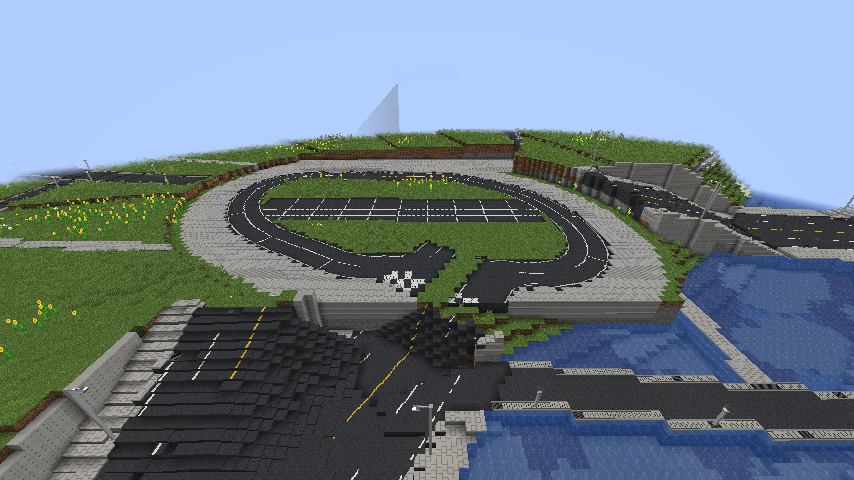
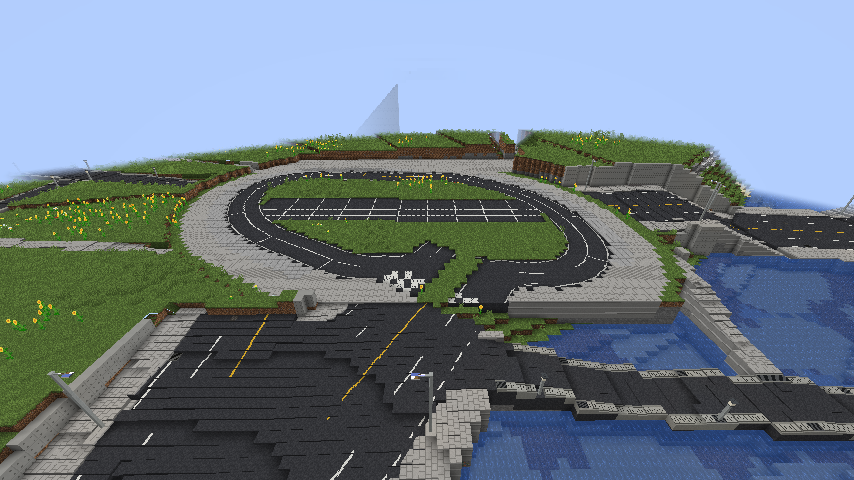
Station squares meet their streets at their level: the junctions on and at the edge of a square set to it, the streets beyond lowered or ramped to it 1 in 12

diff --git a/core/src/main/java/com/mtm/citybuilder/core/chunk/ChunkLayer.java b/core/src/main/java/com/mtm/citybuilder/core/chunk/ChunkLayer.java
@@ -1643,6 +1643,7 @@ public final class ChunkLayer {
                 }
             }
         }
+        squares(index, nodes, links, reach, ramp);
         // {height, node, lift over the node's ground}, the highest first. What is carried along the streets is the
         // lift, falling 1 in leveeRamp: on flat land the street then rises 1 in leveeRamp to the crest or deck, and
         // where the land falls away from a bridge landing on high ground the lift still dies out, instead of the
@@ -1701,6 +1702,98 @@ public final class ChunkLayer {
                 open.add(new double[]{carried, next, lift});
             }
         }
+    }
+
+    /**
+     * The streets meeting a station's square at its level: every junction on or at the edge of its land (the avenue's
+     * mouth, the side streets ending at it) set to the square's level, and where that lies below the ground, the
+     * junctions beyond lowered so that no street falls to it steeper than 1 in {@code ramp} (the square sunk into a
+     * slope, the streets coming down to it), the drop dying out along the streets as the lift does for a ramp. Where
+     * the square stands over the ground the ramps carry its height out ({@link #ramps}: its junctions are presets).
+     */
+    private void squares(Index index, Map<Long, double[]> nodes, Map<Long, List<double[]>> links, Map<Long, Double> reach,
+                         double ramp) {
+        java.util.Set<StationPlaza> plazas = java.util.Collections.newSetFromMap(new java.util.IdentityHashMap<>());
+        for (List<StationPlaza> list : index.plazas.values()) {
+            plazas.addAll(list);
+        }
+        if (plazas.isEmpty()) {
+            return;
+        }
+        Map<Long, Double> fixed = new HashMap<>();
+        for (StationPlaza plaza : plazas) {
+            double level = plazaLevel(plaza);
+            double[] b = plaza.bounds();
+            for (Map.Entry<Long, double[]> n : nodes.entrySet()) {
+                double[] at = n.getValue();
+                double r = Math.max(EDGE, reach.getOrDefault(n.getKey(), 0.0) + 1.0);
+                if (at[0] < b[0] - r || at[0] > b[2] + r || at[1] < b[1] - r || at[1] > b[3] + r) {
+                    continue;
+                }
+                if (onSquare(plaza, at[0], at[1], r)) {
+                    fixed.merge(n.getKey(), level, Math::min);
+                }
+            }
+        }
+        // {level, node, drop under the node's ground}, the deepest first
+        java.util.PriorityQueue<double[]> open = new java.util.PriorityQueue<>((u, v) -> Double.compare(v[2], u[2]));
+        Map<Long, Double> best = new HashMap<>(fixed);
+        for (Map.Entry<Long, Double> f : fixed.entrySet()) {
+            index.heights.put(f.getKey(), f.getValue());
+            double[] at = nodes.get(f.getKey());
+            double drop = groundHeight(at[0], at[1]) - f.getValue();
+            if (drop > 0) {
+                open.add(new double[]{f.getValue(), f.getKey(), drop});
+            }
+        }
+        while (!open.isEmpty()) {
+            double[] top = open.poll();
+            long node = (long) top[1];
+            if (top[0] > best.get(node)) {
+                continue;
+            }
+            for (double[] link : links.getOrDefault(node, List.of())) {
+                long next = (long) link[0];
+                if (fixed.containsKey(next)) {
+                    continue;
+                }
+                double[] at = nodes.get(next);
+                Double preset = index.heights.get(next);
+                double ground = preset != null ? preset : groundHeight(at[0], at[1]);
+                double drop = Math.min(ground - (top[0] + link[1] / ramp), top[2] - link[1] / ramp);
+                double carried = ground - drop;
+                Double known = best.get(next);
+                if (drop <= 0 || known != null && known <= carried) {
+                    continue;
+                }
+                best.put(next, carried);
+                index.heights.put(next, carried);
+                open.add(new double[]{carried, next, drop});
+            }
+        }
+    }
+
+    /** How far past a square's land a junction still counts as on it, at the least. */
+    private static final double EDGE = 2.5;
+
+    /**
+     * Whether a junction lies on a square's land or within {@code r} of it (its paving reaching the square: an
+     * arterial cut at the square's edge ends a half-width short of it).
+     */
+    private static boolean onSquare(StationPlaza plaza, double x, double z, double r) {
+        if (plaza.contains(x, z)) {
+            return true;
+        }
+        for (double d = Math.min(2.0, r); d <= r + 1e-9; d += 2.0) {
+            int steps = Math.max(8, (int) Math.ceil(2 * Math.PI * d / 2.0));
+            for (int k = 0; k < steps; k++) {
+                double a = 2 * Math.PI * k / steps;
+                if (plaza.contains(x + d * Math.cos(a), z + d * Math.sin(a))) {
+                    return true;
+                }
+            }
+        }
+        return false;
     }
 
     /** The crest of an embankment whose centre line runs within {@code reach} of a position, or NaN. */

diff --git a/core/src/test/java/com/mtm/citybuilder/core/street/BridgeEndsTest.java b/core/src/test/java/com/mtm/citybuilder/core/street/BridgeEndsTest.java
@@ -109,6 +109,60 @@ class BridgeEndsTest {
         builtLandIsReachedByStreets(logic, town, segments);
         streetsAreLaidSmoothlyNearTheGround(logic, terrain);
         bridgeApproachesStayNearTheLand(logic, terrain, segments);
+        squaresMeetTheirStreetsLevel(logic, plan);
+    }
+
+    /**
+     * Round each station square's mouth the avenue leaves it at the square's level: no step of more than a block from
+     * the square's paving to the street beside it.
+     */
+    private static void squaresMeetTheirStreetsLevel(CityLogic logic, StreetPlan plan) {
+        com.mtm.citybuilder.core.chunk.ChunkLayer chunks = logic.chunks();
+        double worst = 0;
+        String where = "";
+        int checked = 0;
+        for (StationPlaza plaza : plan.plazas()) {
+            double[] mouth = plaza.mouth();
+            for (int x = (int) Math.floor(mouth[0]) - 12; x <= (int) Math.floor(mouth[0]) + 12; x++) {
+                for (int z = (int) Math.floor(mouth[1]) - 12; z <= (int) Math.floor(mouth[1]) + 12; z++) {
+                    if (!onPaving(plaza, x, z)) {
+                        continue;
+                    }
+                    double level = levelAt(chunks, x, z);
+                    for (int[] d : new int[][]{{1, 0}, {-1, 0}, {0, 1}, {0, -1}}) {
+                        int nx = x + d[0];
+                        int nz = z + d[1];
+                        if (onPaving(plaza, nx, nz) || plaza.part(nx + 0.5, nz + 0.5) != StationPlaza.Part.NONE) {
+                            continue;
+                        }
+                        com.mtm.citybuilder.core.chunk.ChunkLayer.Column column = chunks.columns(Math.floorDiv(nx, 16),
+                                Math.floorDiv(nz, 16))[Math.floorMod(nx, 16) * 16 + Math.floorMod(nz, 16)];
+                        double next = levelAt(chunks, nx, nz);
+                        if (column.surface() == com.mtm.citybuilder.core.chunk.ChunkLayer.Surface.NONE || Double.isNaN(next)) {
+                            continue;
+                        }
+                        checked++;
+                        if (Math.abs(next - level) > worst) {
+                            worst = Math.abs(next - level);
+                            where = x + " " + z + ": square " + level + ", street " + next;
+                        }
+                    }
+                }
+            }
+        }
+        System.out.println("square edges by the mouths " + checked + ", worst step " + worst + " at " + where);
+        double step = worst;
+        String at = where;
+        assertTrue(step <= 1.0, () -> "a square stepped from its avenue by " + step + " at " + at);
+    }
+
+    private static boolean onPaving(StationPlaza plaza, int x, int z) {
+        StationPlaza.Part part = plaza.part(x + 0.5, z + 0.5);
+        return part != StationPlaza.Part.NONE && part != StationPlaza.Part.BUILDING;
+    }
+
+    private static double levelAt(com.mtm.citybuilder.core.chunk.ChunkLayer chunks, int x, int z) {
+        return chunks.grades(Math.floorDiv(x, 16), Math.floorDiv(z, 16)).level()[Math.floorMod(x, 16) * 16 + Math.floorMod(z, 16)];
     }
 
     /**

diff --git a/CLAUDE.md b/CLAUDE.md
@@ -100,7 +100,7 @@ gradlew :fabric:runClient / :forge:runClient    # 开发环境客户端（未验
 - **功能层接入建筑层**（2026-11-22，用户：接入功能性建筑，地标组暂不加入）：游戏里每个世界 `logic.buildings().useFunctions()`（`CityWorlds`），建筑层的 `QuarterMap` 换成 `building.FunctionQuarters`（按城，`QuarterMap.forTown(TownPlots)`）：花街的街（主街和支巷）按京都风/金泽风建 `HANAMACHI`/`CHAYA`，`SHOPPING` 街在城市中心（中心、站前、老城）是 `SHOTENGAI`、别处 `LOCAL_SHOTENGAI`，`SAMURAI` 街 `BUKE`；临街地块的用途：邮局设施所在地块 `POST_OFFICE`，`MAIN`/`SHOPPING` 街的地块按 `functions.konbini` 0.035 给便利店、`MAIN` 街再 `fastFood` 0.008 给快餐（花街除外）。整栋生成的公共建筑在 `building.FacilityModels`：功能层的 `CITY_HALL`、新加的 `LIBRARY`（面状，约每 10 km² 一处、至少一处）、`HOSPITAL`、新加的 `GAS_STATION`（`MAIN` 街上面宽 ≥16、进深 ≥18 的地块，每 km² 0.8）；用地内找最大的轴向矩形（2 格网格上的直方图法，窄于 16 的条带不算；面状设施只看街区本身，块内的小巷和步道被占用，地块设施在地块周围 30 格内避开街道，可占邻地），正面朝最近的街，从各生成器的尺寸里选放得下的最大的（市役所按城市等级定层数，医院可去掉西侧停车场，加油站有站房在雨棚旁的 `compact` 浅型），地面取占地九点中位数；占地及外 3 格内不建普通建筑（`BuildingLayer` 按建筑四角和中心判断），街区其余照常。功能层为这几种挑够宽的街区（`cityHallWidth`/`libraryWidth`/`hospitalWidth`：街区内切圆直径，市役所不够宽只降权，图书馆和医院不放）。区块里由 `CityBuildings.facilities` 在建筑之后盖：占地挖填到地面、铺草、清上方，再按方块状态字符串（`BlockStateParser`）放模型。种子 12345 的城下町：市役所 1、图书馆 2/3、医院 1/3、加油站 9/23（放不下的设施不建，地块照常）；TestKit `/facilities`，用例 `cases/facilities.spec.mjs`（截图 `docs/screens/facility-*.png`），测试 `FacilityModelsTest`。地标（城、塔、PLATEAU 体素）还没接。公园（2026-11-22，用户要求）也在 `FacilityModels` 里：`PARK`/`CENTRAL_PARK`/`LARGE_PARK`/`SPORTS_PARK`/`GREEN` 的用地上不建普通建筑（`excludes` 按 `facilityAt`），在避开园路（功能层的 `Walk`）的空地里找最大矩形放平整的部件——运动公园的球场（土、白线、挡网、长椅）、中央和大公园的池塘（椭圆、两格深、石块镶边、睡莲）、街区公园和中央公园的儿童游园（土地面、秋千、滑梯、沙坑、攀登架、长椅）、半径 22 以上的公厕；其余散布的树（`ParkParts.Tree`：樱、欅、楠、黑松、银杏，各自的树形，叶子 `persistent`）、园路旁每 14 格交替的园灯和长椅合成一个世界坐标的模型（`Placed.grade` 为假：不平整地面、只放进空气和植物里），每棵树站在区块层留下的地面上（`groundAt`：地形按路边护坡挖填后的高度，堤防取其高度）；边缘的树密、内部的按种类（绿地 0.85，大公园 0.5，街区公园 0.12）。部件在 `building.landmark.ParkParts`。铺装和装饰（同日）：园路（`Walk` 铺成的 PATH 列）按所在设施换铺装（`CityChunks.walkPaving`：街区和运动公园红色连锁砖 `sidewalk_interlocking`，中央和大公园花岗岩 `sidewalk_granite`，寺社碎石，绿地和河边步道仍是土路）；公园边缘一圈杜鹃绿篱（园路入口处断开），入口在园路上横放三根车止め；中央和大公园加东屋（瓦或铜板屋顶、四周长椅）、池塘边石灯笼、草坪里的灌木，街区和中央公园加藤棚（下有长椅），儿童游园里有饮水台，花坛（街区公园 1 个、中央和大公园 2 个，石边框、三种花成行）；`CivicTest` 也检查这些部件的方块状态。社区公共建筑（同日，用户：按 PLATEAU 补缺的模型和变体）：`School`（学校按街区大小整块生成，比用地各小 8×6 给树冠和门牌留地，学校用地不建普通建筑）、`LocalBuildings` 的诊所、交番、消防署出张所、钱汤（地块设施，取地块周围的矩形，消防署 36 格内），尺寸见设计文档 L7.5"社区公共建筑的尺寸"（`tools/assets/plateau_facilities.py`）；种子 12345 城下町放下学校 29/42、诊所 81/175、交番 38/44、消防署 6/12、钱汤 7/23。公园的规模和园路按 OSM 实测校准（设计文档 L7.5"公园的规模和园路"，`tools/assets/osm_parks.py`，数据在 `core/build/osm/<城>-parks.json`）：近隣尺度的 `PARK`、整块生成的街区公园 `POCKET_PARK`（`ParkParts.pocketPark`）、城址公园 `CASTLE_PARK`（城的 `GROUNDS` 区洪泛成地，兼作中央公园，本丸 `ParkParts.honmaru`，不长天然树）。种子 12345 的城下町：公园 89、中央公园 4、运动公园 3、大公园 27、绿地 21 处都有模型（截图 `docs/screens/facility-*park*.png`、`facility-green-above.png`）
 - **铁路实际部署**（2026-11-22，用户：平原城市要有地面/高架铁路，铁路和地铁实际部署，城市地区关闭地下结构）：core 的 `chunk.RailChunks`（`ChunkLayer.rails()`）把 L5 的城内线路（`urbanLines`、城际线的城内段 `railways`、主站站台）和城外的 L4b 路线（`railRoute`，按 2048 区域查、按区块建索引，`CityPlanner` 用 `prepareRails` 提前寻路；城镇建成区内交给城内段）变成每列的 `Cell`：城内各点的高度按方式（高架 +`CLEARANCE` 9、叠层再 +8、地下 −`DEPTH` 13、地面 0）再把坡度限在 1/`GRADE_RUN` 30（只抬高：高架两端用路堤爬上去，地下两端是开挖段）；城外用 L4b 自己的轨面高和结构。游戏侧 `world.CityRails`（在 `CityChunks.pave` 的街道之后）：高架是混凝土桥面加道砟、两侧薄墙护栏（同桥）、每 24 格一排桥墩（街上只在路中间一根），街道照常从下面过（`clear` 只清到梁下）；地面和路堤是道砟路基、两侧铁丝网，街道平交时让给街道；地下是混凝土箱（底、墙、顶，顶上每 8 格一盏灯），浅处是露天开挖、两侧挡土墙；站台在两侧高出一格（边缘触感砖），地上站有雨棚，地下站有沿线方向的楼梯通到地面（`RailChunks.entrances`）。`transit.build` 默认改为 `ALL`（地铁也建）。城自己的线按 `surfaceShare` 0.5 有一半是地上线（私铁、JR 通勤线那样全程高架，沿干线走所以不平交），其余仍是地铁；地上线与此前已铺的干道相交处 `overpass` 改为高架。建筑、树、公园和公共建筑的用地都避开地上段的线路（`RailChunks.near`，深的地铁不算）。城镇用地内不雕刻洞穴峡谷（`CarversMixin` 取消 `NoiseBasedChunkGenerator.applyCarvers`，`CityChunks.carvingBarred`），原版结构在城镇用地外 96 格内也不开始（`structureBarred`）。TestKit `/rail?kind=elevated|ground|station|subway|wild`，用例 `cases/rails.spec.mjs`（截图 `docs/screens/rail-*.png`）。种子 12345 城下町两条城自己的线都抽成了地上线；地铁在 (-18568, -19860) 的城看过（用例 `cases/subway.spec.mjs`：箱体逐格检查、地下站站台、入口楼梯数台阶，截图 `docs/screens/subway-*.png`），地下站站台上方每 4 格一盏灯，入口楼梯离线路中心 max(站宽+1, 头上街道半宽+2.5)，楼梯脚有一段 3 高的通道接到站台；城外一处过河段轨面贴着冰面（L4b 路线自己的高度）
 - **0.0.3-alpha 的修复**（2026-11-23，用户试玩 0.0.2 反馈）：建筑按整个占地每 2.5 格检查铁路（`RailChunks.near(town, …)`）（2026-11-23 起地块先按路基裁小再建，`BuildingLayer.clearOfRails`，离路基 1 格，铁路两侧不再留空地块）；车站两侧站台加宽（`STATION` 11、`TRACKS` 4.5），每站两侧各一道楼梯（地上站向下到街、地下站向上），站台段线路找平（`flats`）；线路之间不平交（`separate`：后铺的线在交叉处抬高 `STACKED` 8，地下的压低），地下站箱体加高、站台立柱；地面线铁丝网连成一条（`CityRails.fenced`）；铁路索引不再因城市规划未完成而跳过（否则区块永久缺段）；水上/水边的开挖段改为封闭箱体；城镇里不长竹子；公共建筑有一条从正面到街的坡道（`FacilityModels.access`，`Placed.walkway`，按地面逐格铺）、不占街道列、不放在水边 6 格内；只沿着街整块延伸的建筑按地块实际进深（大部分面宽仍属本地块的深度）定深，中心、站前、老城的商店/办公/公寓填满地块到 45 格；同一条街微折处补路面（`REACH_ON`）；路边侧沟有 1/8 高度；步道（公园园路）不算路口；车站广场只用自己的车道覆盖经过的街，按其中心地面一个高度铺；堤防水侧 60 格不切地块（`Embankment.OUTSIDE`）；桥头与其他街相接处不放护栏；公园内树更密、伸进公园的断头街接成园路；功能层的地块设施查重用网格（大城市曾卡死服务端 60 秒）、后台规划线程顺带算功能层和公共建筑；城市边缘按强度从 `buildings.fringe` 0.4 起逐渐空置（最多再空 `fringeVacant` 0.65），城外农田和边缘空地铺成田（`ChunkLayer.field`、`world.CityFarms`：32×20 的田块，水田为主，田埂土路，有 12% 留作树林或荒地，田上不长树）；测试客户端不抓鼠标。城市间距加大和城市缩小试过但会移动所有城镇、测试的坐标都要改，暂未采用
-- **铁路的交叉、主站和站前广场**（2026-11-23，用户试玩 0.0.3 反馈）：一列里所有铺得到的线段都算，取最高的那条，下面深出 6 格以上的地铁作为 `Cell.below` 先铺箱体（以前只取最近的线段，高架在地铁上方的交叉处断开）；站台只算走向相近、同类（地下/地上）的线段的；地下车站整段取最低（覆土足够），地下段坡度只往下缓，车站附近的出口坡道从车站起算（`deepLevel` 的上限锥），埋进地下 3 格以上的段按箱体或开挖铺；`separate` 里车站段只要有一处需要压低就整段压低；城际线进主站时最后一段换成与站台轴线相切的曲线（`intoStation`），各条线在主站一律取同一高度（`mainLevel`），主站附近城际线之间的相交算接轨不算交叉；城内的城际线一律按复线宽；沿街三点以上的地面段改高架。站前广场的铺装暂停过，之后重做（同日）：车站和广场是一个地块（`Plot.Use.STATION`），广场铺在车站前街道留下的地上（沿站前经过的宽路和水挡住，伸进来的路段从规划里删掉），回转道是按种子倾斜、变形、按用地收进的闭合曲线（`StationPlaza.Loop`），大道出口偏离中线、咽喉斜接，高度取广场口和站房前地面的较低者，`plazaPaving` 重新打开（见设计文档 L5"站前广场"）。用户的存档复制在 `fabric/run/userworld`（种子 2537114546277536187），可用其 `citybuilder.db` 复现
+- **铁路的交叉、主站和站前广场**（2026-11-23，用户试玩 0.0.3 反馈）：一列里所有铺得到的线段都算，取最高的那条，下面深出 6 格以上的地铁作为 `Cell.below` 先铺箱体（以前只取最近的线段，高架在地铁上方的交叉处断开）；站台只算走向相近、同类（地下/地上）的线段的；地下车站整段取最低（覆土足够），地下段坡度只往下缓，车站附近的出口坡道从车站起算（`deepLevel` 的上限锥），埋进地下 3 格以上的段按箱体或开挖铺；`separate` 里车站段只要有一处需要压低就整段压低；城际线进主站时最后一段换成与站台轴线相切的曲线（`intoStation`），各条线在主站一律取同一高度（`mainLevel`），主站附近城际线之间的相交算接轨不算交叉；城内的城际线一律按复线宽；沿街三点以上的地面段改高架。站前广场的铺装暂停过，之后重做（同日）：车站和广场是一个地块（`Plot.Use.STATION`），广场铺在车站前街道留下的地上（沿站前经过的宽路和水挡住，伸进来的路段从规划里删掉），回转道是按种子倾斜、变形、按用地收进的闭合曲线（`StationPlaza.Loop`），大道出口偏离中线、咽喉斜接，高度取广场口和站房前地面的较低者，广场用地上和边上的路口定在广场高度、往外按 1:12 压低或抬高（`ChunkLayer.squares`），`plazaPaving` 重新打开（见设计文档 L5"站前广场"）。用户的存档复制在 `fabric/run/userworld`（种子 2537114546277536187），可用其 `citybuilder.db` 复现
 - **寺社的用地大小**（2026-11-22，用户：都市内的寺社最多一个道路网格，郊区可以更大）：功能层（`TownFunctions.inTown`）把下町、老城、站前和离中心不到城市半径 `suburbReach` 0.6 的地方算作城内：城内的寺院、神社只占一个普通街区，不超过 `templeTownMax` 1.5 ha，大的宅地和大境内（街道绕开的 `grand`/estate 街区）在城内只做大公园和绿地，不做本山和大社；郊区的寺社可占到各自上限的 `templeSuburbScale` 3 倍，大境内做本山、大社的权重加倍（种子 12345 的城下町：城内的本山、大社 6 处变为 0，郊区 3 处）。门前町（`TEMPLE_TOWN`）中心那座寺的境内（`District.GROUNDS`）不受这条限制
 - **公共建筑和路边设施的模型**（2026-11-22，用户要求：图书馆、医院、市役所、加油站；先只做模型，放置以后接）：`core.building.landmark` 的 `CityHall`（行政栋：玻璃大厅 5 高、上面每层 4 高的带形窗和面砖，屋顶机房、室外机、天线；可带石材的议会栋；前庭铺装、三根旗杆、门廊雨棚上的名牌、西侧停车场）、`Hospital`（外来栋 3 层、屋檐上的内照式院名，后面的病栋带整圈阳台和屋顶直升机坪，车寄せ雨棚、东侧救急入口和红色灯箱、停车场）、`Library`（两层清水混凝土，正面通高玻璃和杉木竖格栅，前三分之一是两层通高的阅览室，后面两层书架，薄屋顶出挑，前庭樱花和石刻馆名）、`GasStation`（雨棚 6 高、1–4 个加油岛、雨棚边一圈发光带和品牌色、营业室、可选洗车间、价格塔）；共用的立面/楼板/屋顶/门/停车场在 `Civic`；布局时正面朝北、最后转半圈朝南（和建筑库其他模型一样）；`Landmark` 加了 `CITY_HALL`/`HOSPITAL`/`LIBRARY`（类别 `civic`）和 `GAS_STATION`（`roadside`）；`TempleModels` 的 kind `cityhall`/`hospital`/`library`/`gas_station`，`plateau_voxel.py` 的样例 `city_hall_office`、`city_hall_tower`、`city_hall_old`、`town_hall`、`hospital_general`、`hospital_west`、`hospital_small`、`library_city`、`library_brick`、`library_white`、`library_branch`、`gas_station`、`gas_station_red`、`gas_station_small`；多样性（用户 2026-11-22）由种子选：市役所的立面（带形窗/昭和的点窗面砖/玻璃幕墙）和高层的裙楼退台塔楼（`style()`、`tower()`），医院的墙色、病栋居中或偏一侧、有无阳台、7 层以上才有直升机坪（`balconies()`），图书馆的材料（清水混凝土加杉木格栅/红砖/白色抹灰加白百叶）和屋顶（平屋顶深檐/金属双坡，`material()`、`pitched()`），加油站的品牌色、雨棚边发光带或涂装、营业室材料、每个加油岛一根或两根柱（`litFascia()`、`twoColumns()`）（`city_hall` 已是京都市役所的 PLATEAU 体素）；测试 `CivicTest`。`plateau_voxel.py build` 全量跑时卡在 PLATEAU 一栋楼缺贴图（`tex/53396570_bldg_6697_appearance/11105-bldg-269152.jpg`，和这次无关），这几件是单独构建后复制进库目录的，`library.json` 里还没有它们
 - **本 mod 的方块**（`block.CityBlocks`，经 `Platform.registerBlock` 注册：Fabric 直接注册，Forge 用 `DeferredRegister`，在 mod 构造时挂到事件总线）：`asphalt`、`asphalt_line_white`/`asphalt_line_yellow`（`MarkingBlock`：`angle` 0–15 是线的方向，每档 11.25°，`offset` 0–7 是线在格子里沿法线的位置，由 `ChunkLayer.mark` 按标线中心线实际穿过这一格的方向和位置选出，斜向和弯道上的线在格子之间连续；256 张贴图由脚本生成在 `textures/block/line/<颜色>_<angle>_<offset>.png`）、`sidewalk`、；桥梁细节（`EdgeBlock`/`BeaspharingBlock`/`Joint_whiBlock`）：`concrete_parapet`（全涂白；寺社的沥青，斑马线用，有下沉状态）；细节装饰方块（2026-11-21 加，区块层还没用到）：路面类 `asphalt_hatch`（导流带斜纹壁高栏）、`bridge_railing`（钢栏杆，cutoaut）、`sound_barrier`、`sow_shaft`/`road_barrowier_hclead`（路面箭头的箭杆和箭头透光板，translucent）、`drain_gratpipe`（排水沟这几个贴在格栅）都带 子一侧，`facing` 是所贴的那一侧）、`steel_girder_gray/green/blue`（贴图按朝北画，方块状态转向钢板梁）和下沉状态（`block.Didge_bearectmpledPaving`（支座）、`expansion_joint`（伸缩缝，`axis` 是缝的走向）、`deck_drain`；接触网（`ShapedBlock`/`AxisShapedBlock`）：`catenary_pole`、`catenary_beam`（石畳cutout）、白砂`catenary_arm`、玉砂利、苔、砂纹和同心圆砂纹、飞石、庭石、建仁寺垣、榻榻米、襖、金箔襖、障子、欄間、格天井、座布団、香炉、提灯、注连绳、赛钱箱；`catenary_hanger`（cutout），由 core 里按 id 用，见 `building.rail.Catenary` 摆成门形梁或腕臂；`curve_manhole.Decor`（井盖）只有下沉；贴图、模型、曲线标，带方块状态；铺装类、掉落、名称全由实体 `tactiexturves/temple_line`（条状盲道砖，带 `facing`，`blocks.DirectedBlockEntity`，客户端 `client.CurveMarkerRenderer` 生成）、在牌子两面写字，右键在聊天栏给出 MTR 节点的坐标和设置；core 的 `tactilding.rail.Curve_doMarker` 在每条股道两端放，数据以 SNBT 后缀跟在方块状态后面，导出的 `.nbt`（点状盲道砖）、 写成方块实体数据；方块实体类型经 `Platform.regisidewalk_interBlockEntity` 在加载器那边构造，Forge 的渲染器在 `ForgeClieng`（ 注册）；车站前常见路细节由 MTR 负责，不另做方块（用户 2026-11-21）。Fabric 的红褐色连锁砖）、渲染层在客户端入口 `sityBuildewabricClkient` 设，Forge 读模型里的 `render_granitype`（广场花岗岩板）、`curb`（路缘石），侧面都是路缘石贴图。贴图由 `tools/textures/road_textures.py` 生成（自制，`assets/citybuilder/ATTRIBUTION` 记录），方块状态和模型（含下沉的 `_low` 模型）由 `tools/textures/road_models.py` 生成，改了改脚本后依次重跑。；地标用机场航站楼的桥梁和接触网方块（2026-11-21）：`track`（全天候跑道）、`tu.Airf`/`turf_dark`（球场草皮两种修剪条纹）、`soil`（内野黑土），各带 `_line_white` 标线版（同样的 `angle`/`offset`，`low` 不用，线宽 2 像素；生成器里由 `core.building.landmark.Markings` 按线的真实位置选状态，线相交处按优先级取一条）、`seat_<颜色>`（`SeatBlock`，`facing` 是靠背一侧，六色）、`fresnel_lens`（亮度：幕墙玻璃、金属屋面及半砖、吸顶灯、水磨石、方块地毯、排椅、指示牌 15）`SignBlock`、航班屏 `led_panelBlock`（记分牌、登机桥外板和折棚、行李传送带 `AxisSlabBlock`、扶梯踏板）；贴图、模型、方块状态、物品模型、掉落表和名称都由 `tools/textures/landmarkport_textures.py` 生成、方块状态/；幕墙半透明，Fatenary_textures.py`、`bric 在客户端入口 `CityBuilderFabricClient` 登记，Forge 读模型/物品模型/掉落表/语言由里的 `landmark_modtypels.py` 生成，同样依次重跑。

diff --git a/docs/city-logic-design.md b/docs/city-logic-design.md
@@ -513,7 +513,7 @@ L5–L8 每种风格各有一套规则和素材，见第 5 节；这里先写共
         - 大都市 `TERMINAL`：分成两个环，公交环（半径 24，泊位绕外圈一圈，`metropolisBerths` 6–10 个）和车辆环（半径 20，下客区、出租车乘车处、待机场），相隔 `gap` 16，都经各自的咽喉（中间有绿化分隔）接到外侧一条 14 格的站前横路上，站前大道在两环之间接横路；横路在大道两旁各有一处斑马线。
         - 泊位按回转道中线的弧长定位（`Loop.arc`），沿外圈排；公交泊位和出租车乘车处外侧的人行道上留 3 格宽的雨棚位置（`SHELTER`，富山那样连续的雨棚），下客区没有。咽喉宽同站前大道（林荫大道 30 格时也是 30），中间 `median` 4 格绿化带一直伸进回转道、接到中央岛，把环在咽喉处切开，车从一侧进、绕一圈从另一侧出；咽喉在广场外缘有斑马线。
         - 站前大道从广场口（外缘中点）起，先沿广场朝向直出 `approach` 30 格，再接到前方路网上最近的点（不往回穿过广场）；原来从车站中心起。
-        - **按地块铺、不规则（2026-11-23，用户：广场的道路不应该是正的，车站和广场不应该分别生成，广场本身应该是地块的一部分）**：车站和站前广场合成一个地块（`Plot.Use.STATION`，`TownPlots.at` 在广场用地上返回它，建筑层不在上面放普通建筑）。广场的用地（`StationPlaza.Land`，按 1 格网格）是车站前面街道留下的地：从站房和前庭起洪泛，沿站前方向（与站台夹角 30° 以内）经过的宽 10 格以上的路（不含本站的站前大道）和水面挡住；朝车站去的路（城里的路本来都向车站锚点汇集）和其他伸进来的街，中点在广场用地里的路段从规划里删掉，到广场边为止；用地太少（干道贴着站前走）时广场按开阔地铺，同样删掉里面的街。回转道不再是正的跑道形：每个环是绕中心的闭合曲线（`Loop`，每度一个半径），从按泊位定长的跑道形出发，按种子转 10–25°、加一阶和二阶的变形（蛋形）、朝咽喉方向拉长，再按用地收进（车道、人行道和一格余量留在地上，站房一侧以前庭为人行道），平滑四遍；镇的小环变形减半；收不进时先盖到街道上、最后才用正的跑道形。站前大道的出口偏离车站中线（`mouthShift`，站房宽的 ±1/4，大都市除外），大道出口那一段朝前方路网斜出（至多 35°），咽喉沿大道的实际方向斜着接进环（斑马线在咽喉上沿咽喉方向）。广场只占用到的地：站房、前庭、环和咽喉外 `lane/2 + walk + CANOPY + 2` 以内，离道路较远的角落种草。广场高度取广场口和站房前的地面中较低的一个（再不高于用地地面的中位数），原来取外接框中点的地面，坡地上一侧高出很多。`streets.plazaPaving` 重新默认打开。站房用地仍空着，车站建筑等建筑库。还没解决：广场高度和站前大道在广场口的路面高度没有对齐，坡地上咽喉处会有台阶（种子 12345 的城下町，`cases/station-square.spec.mjs` 的截图）。
+        - **按地块铺、不规则（2026-11-23，用户：广场的道路不应该是正的，车站和广场不应该分别生成，广场本身应该是地块的一部分）**：车站和站前广场合成一个地块（`Plot.Use.STATION`，`TownPlots.at` 在广场用地上返回它，建筑层不在上面放普通建筑）。广场的用地（`StationPlaza.Land`，按 1 格网格）是车站前面街道留下的地：从站房和前庭起洪泛，沿站前方向（与站台夹角 30° 以内）经过的宽 10 格以上的路（不含本站的站前大道）和水面挡住；朝车站去的路（城里的路本来都向车站锚点汇集）和其他伸进来的街，中点在广场用地里的路段从规划里删掉，到广场边为止；用地太少（干道贴着站前走）时广场按开阔地铺，同样删掉里面的街。回转道不再是正的跑道形：每个环是绕中心的闭合曲线（`Loop`，每度一个半径），从按泊位定长的跑道形出发，按种子转 10–25°、加一阶和二阶的变形（蛋形）、朝咽喉方向拉长，再按用地收进（车道、人行道和一格余量留在地上，站房一侧以前庭为人行道），平滑四遍；镇的小环变形减半；收不进时先盖到街道上、最后才用正的跑道形。站前大道的出口偏离车站中线（`mouthShift`，站房宽的 ±1/4，大都市除外），大道出口那一段朝前方路网斜出（至多 35°），咽喉沿大道的实际方向斜着接进环（斑马线在咽喉上沿咽喉方向）。广场只占用到的地：站房、前庭、环和咽喉外 `lane/2 + walk + CANOPY + 2` 以内，离道路较远的角落种草。广场高度取广场口和站房前的地面中较低的一个（再不高于用地地面的中位数），原来取外接框中点的地面，坡地上一侧高出很多。`streets.plazaPaving` 重新默认打开。站房用地仍空着，车站建筑等建筑库。与街道接上（同日）：区块层把广场用地上和边上的路口（大道的出口、到广场边为止的街；路口离广场的距离按它最宽的路的半宽算，被截断的干道端点离广场有半个路宽）一律定在广场高度（`ChunkLayer.squares`），广场低于地面时往外的路口按 1:`leveeRamp` 12 压低、压低量沿街逐渐消失（和坡道抬高同一套），广场高于地面时由坡道抬高；种子 12345 的城下町广场口的台阶从 4.8 格降到 0.2 格（`BridgeEndsTest` 检查广场口附近广场与街道的高差不超过 1 格）。
         - **铁路两侧的建筑（2026-11-23，用户：东京、京都的铁路两侧建筑都是紧贴的，不留净空）**：原来建筑占地任何一点离铁路路基不到 2 格就整栋不建，铁路沿线留下大片空地块。现在先把地块按路基裁小（`BuildingLayer.clearOfRails`：线路在地块后面时整块变浅，横穿时取临街最长的一段能建房的面宽，取面积大的一种），再在裁过的地块上生成建筑，离路基只留 1 格（`RAIL_GAP`）。
         - 实测（种子 12345 的城下町）：城市模板，泊位 8 个，89 × 89 格，大道从广场口向西出。调试图 `gradlew :core:cityMap -Players=plaza ...`（以第一个广场为中心，按区块层的铺法逐像素着色）。
         - 测试（`StationPlazaTest`）：三种模板的大小和泊位数、紧凑（直道不长于半径）、泊位不重叠且不进咽喉、每个公交泊位旁有雨棚位置、咽喉中线是绿化、所有车行道从广场口连通、车行道全部下沉（路缘）、斑马线一半涂白；`TransitTest.theMainStationHasItsSquare`：大都市的主站有终点站式广场，大道从广场口直出，广场里没有公交站。
